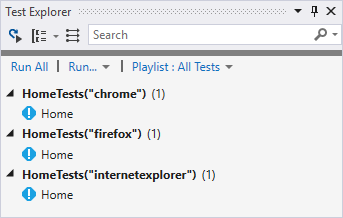
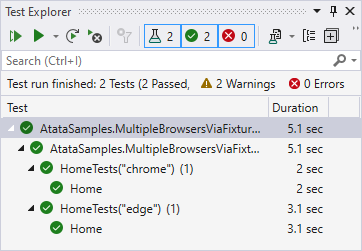
Update "Multi-Browser Configuration via Fixture Arguments" tutorial

diff --git a/tutorials/multi-browser-configuration-via-fixture-arguments/index.md b/tutorials/multi-browser-configuration-via-fixture-arguments/index.md
@@ -23,7 +23,7 @@ NUnit is used as a test engine in this tutorial.
 So ensure to reference {% include nuget.md name="NUnit" %} and {% include nuget.md name="NUnit3TestAdapter" %} packages.
 {:.info}
 
-Drivers for Chrome and Internet Explorer in this tutorial are setup
+Drivers for Chrome and Edge in this tutorial are setup
 using {% include nuget.md name="Atata.WebDriverSetup" %} package.
 {:.info}
 
@@ -36,39 +36,31 @@ Create the following class:
 
 ```cs
 using Atata;
-using Atata.WebDriverSetup;
 using NUnit.Framework;
 
-namespace AtataSamples.MultipleBrowsersViaFixtureArguments
+namespace AtataSamples.MultipleBrowsersViaFixtureArguments;
+
+[SetUpFixture]
+public class SetUpFixture
 {
-    [SetUpFixture]
-    public class SetUpFixture
+    [OneTimeSetUp]
+    public void GlobalSetUp()
     {
-        [OneTimeSetUp]
-        public void GlobalSetUp()
-        {
-            AtataContext.GlobalConfiguration
-                .UseChrome()
-                    .WithArguments("start-maximized")
-                .UseInternetExplorer()
-                // TODO: Specify Internet Explorer settings, like:
-                // WithOptions(x => x.EnableNativeEvents = true).
-                //.UseFirefox().
-                //    WithFixOfCommandExecutionDelay()
-                // TODO: You can also specify remote driver configuration(s):
-                // UseRemoteDriver().
-                // WithAlias("chrome_remote").
-                // WithRemoteAddress("http://127.0.0.1:4444/wd/hub").
-                // WithOptions(new ChromeOptions()).
-                .UseBaseUrl("https://demo.atata.io/")
-                .UseCulture("en-US")
-                .UseAllNUnitFeatures();
+        AtataContext.GlobalConfiguration
+            .UseChrome()
+                .WithArguments("start-maximized")
+            .UseEdge()
 
-            DriverSetup.GetDefaultConfiguration(BrowserNames.InternetExplorer)
-                .WithX32Architecture();
+            // TODO: You can also specify remote driver configuration(s):
+            // .UseRemoteDriver()
+            //     .WithAlias("chrome_remote")
+            //     .WithRemoteAddress("http://127.0.0.1:4444/")
+            //     .WithOptions(new ChromeOptions())
+            .UseBaseUrl("https://demo.atata.io/")
+            .UseCulture("en-US")
+            .UseAllNUnitFeatures();
 
-            AtataContext.GlobalConfiguration.AutoSetUpConfiguredDrivers();
-        }
+        AtataContext.GlobalConfiguration.AutoSetUpConfiguredDrivers();
     }
 }
 ```
@@ -87,36 +79,29 @@ In `SetUpFixture` you can configure all browser drivers you want to use.
 using Atata;
 using NUnit.Framework;
 
-namespace AtataSamples.MultipleBrowsersViaFixtureArguments
+namespace AtataSamples.MultipleBrowsersViaFixtureArguments;
+
+[TestFixture(DriverAliases.Chrome)]
+[TestFixture(DriverAliases.Edge)]
+////[TestFixture("chrome_remote")]
+[Parallelizable]
+public abstract class UITestFixture
 {
-    [TestFixture(DriverAliases.Chrome)]
-    [TestFixture(DriverAliases.InternetExplorer)]
-    //[TestFixture(DriverAliases.Firefox)]
-    //[TestFixture("chrome_remote")]
-    public abstract class UITestFixture
-    {
-        private readonly string driverAlias;
+    private readonly string _driverAlias;
 
-        protected UITestFixture(string driverAlias)
-        {
-            this.driverAlias = driverAlias;
-        }
+    protected UITestFixture(string driverAlias) =>
+        _driverAlias = driverAlias;
 
-        [SetUp]
-        public void SetUp()
-        {
-            AtataContext.Configure()
-                .UseDriver(driverAlias)
-                .UseTestName(() => $"[{driverAlias}]{TestContext.CurrentContext.Test.Name}")
-                .Build();
-        }
+    [SetUp]
+    public void SetUp() =>
+        AtataContext.Configure()
+            .UseDriver(_driverAlias)
+            .UseTestName(() => $"[{_driverAlias}]{TestContext.CurrentContext.Test.Name}")
+            .Build();
 
-        [TearDown]
-        public void TearDown()
-        {
-            AtataContext.Current?.Dispose();
-        }
-    }
+    [TearDown]
+    public void TearDown() =>
+        AtataContext.Current?.Dispose();
 }
 ```
 
@@ -137,14 +122,13 @@ Create simple page object class:
 ```cs
 using Atata;
 
-namespace AtataSamples.MultipleBrowsersViaFixtureArguments
-{
-    using _ = HomePage;
+namespace AtataSamples.MultipleBrowsersViaFixtureArguments;
 
-    public class HomePage : Page<_>
-    {
-        public H1<_> Header { get; private set; }
-    }
+using _ = HomePage;
+
+public class HomePage : Page<_>
+{
+    public H1<_> Header { get; private set; }
 }
 ```
 
@@ -159,35 +143,31 @@ Now we can create specific test fixture with single test. Don't forget to define
 using Atata;
 using NUnit.Framework;
 
-namespace AtataSamples.MultipleBrowsersViaFixtureArguments
-{
-    public class HomeTests : UITestFixture
-    {
-        public HomeTests(string driverAlias)
-            : base(driverAlias)
-        {
-        }
+namespace AtataSamples.MultipleBrowsersViaFixtureArguments;
 
-        [Test]
-        public void Home()
-        {
-            Go.To<HomePage>()
-                .Header.Should.Equal("Atata Sample App");
-        }
+public class HomeTests : UITestFixture
+{
+    public HomeTests(string driverAlias)
+        : base(driverAlias)
+    {
     }
+
+    [Test]
+    public void Home() =>
+        Go.To<HomePage>()
+            .Header.Should.Equal("Atata Sample App");
 }
 ```
 
 ## Run Tests
 
 Build project and open Test Explorer panel in Visual Studio.
-For `Home` test you can find 3 items in the Test Explorer panel:
+For `Home` test you can find 2 items in the Test Explorer panel:
 
-![Test Explorer: group by class](test-explorer-group-by-class.png)
-![Test Explorer: tests](test-explorer-tests.png)
+![Test Explorer: tests](test-explorer-tests.png?v2)
 
 Run all tests and check the results.
 
-*Please note that current tutorial requires Chrome and Internet Explorer browsers to be installed.*
+*Please note that current tutorial requires Chrome and Edge browsers to be installed.*
 
 {{ download-section }}
